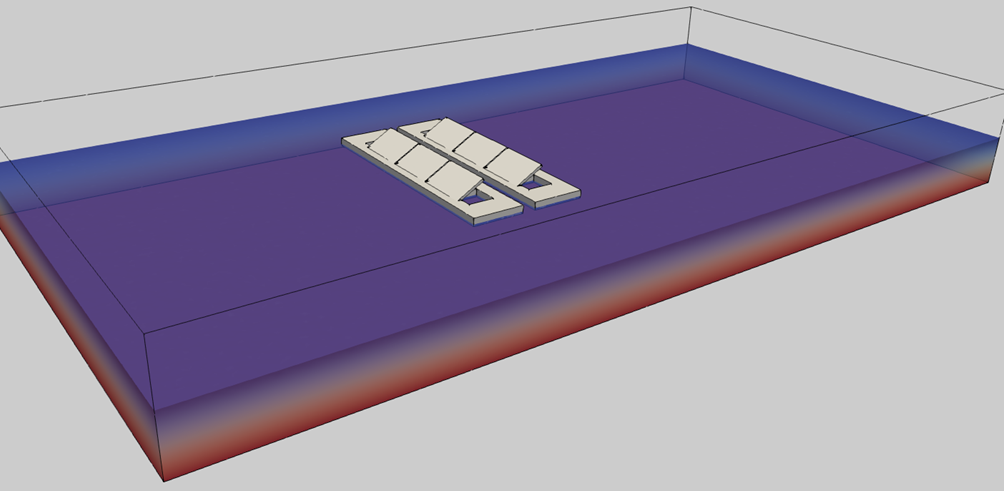
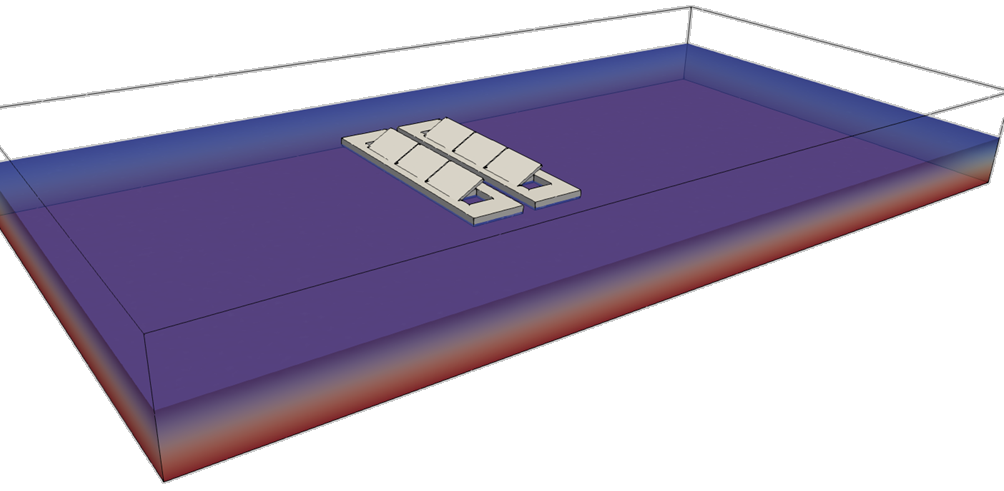
adjust picture

diff --git a/_software/2_beauty.md b/_software/2_beauty.md
@@ -7,7 +7,6 @@ header:
 share: false
 ---
 
-**Description**
 <p style="text-align: justify;">
 BEAUTY, a Boundary Element Analysis Unified Tool for You, is an advanced Boundary-Element-Method-based software tool designed to provide comprehensive and accurate solutions for a variety of engineering problems, including potential flow, Stokes flows, Helmholtz equations, and more. With a focus on delivering high-quality numerical results and an intuitive user experience, BEAUTY stands out as the go-to tool for researchers and engineers aiming for precision and efficiency in their simulations. This software combines the elegance of mathematical rigor with the practicality of robust computational methods, making it a beautiful addition to any engineer's toolkit.
 </p>

diff --git a/_software/1_proteus.md b/_software/1_proteus.md
@@ -7,7 +7,6 @@ header:
 share: false
 ---
 
-**Description**
 <p style="text-align: justify;">
 Proteus is a Python package for rapidly developing computer models and numerical methods. It is focused on models of continuum mechanical processes described by partial differential equations and on discretizations and solvers for computing approximate solutions to these equations. Proteus consists of a collection of Python modules and scripts. Proteus also uses several C, C++, and Fortran libraries, which are either external open source packages or part of Proteus, and several open source Python packages.
 </p>

diff --git a/_software/3_visualization.md b/_software/3_visualization.md
@@ -7,7 +7,6 @@ header:
 share: false
 ---
 
-**Description**
 <p style="text-align: justify;">
 Create HDF5 and XMF files for visualization through ParaView.
 </p>
